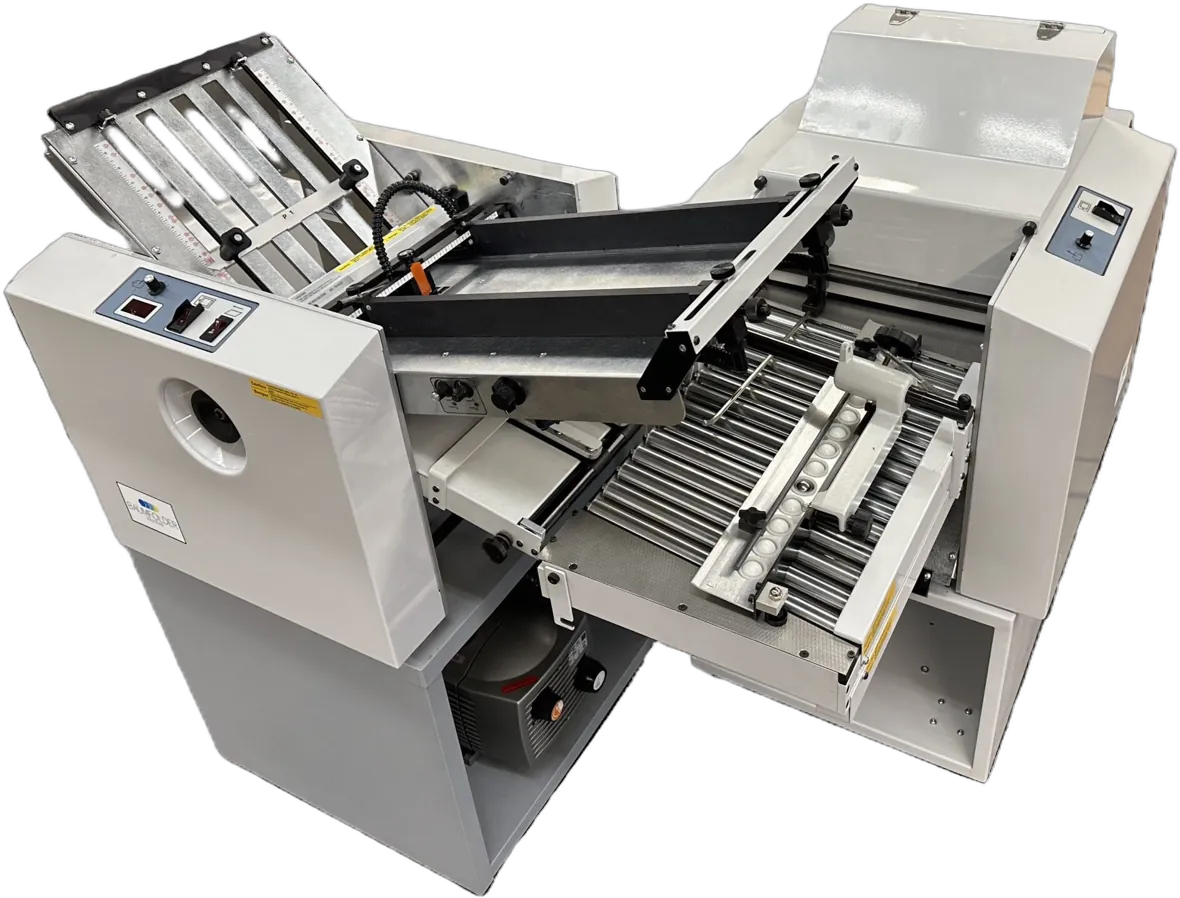
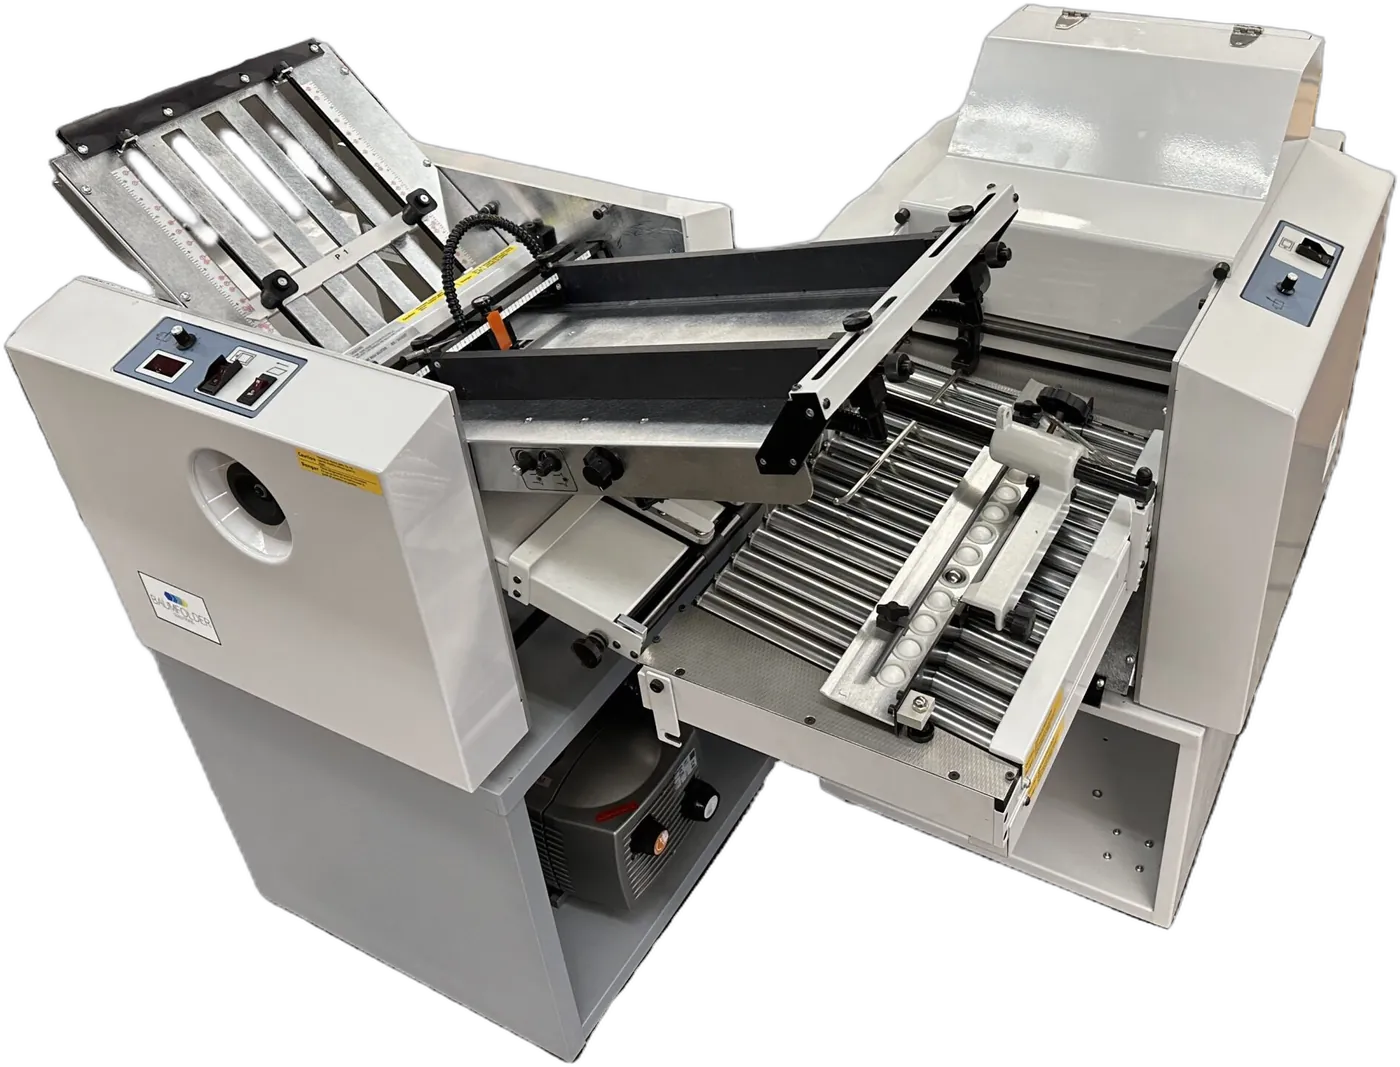
Previews: 11 ativos

diff --git a/baumfolder-sidney-oh/folding-machines.html b/baumfolder-sidney-oh/folding-machines.html
@@ -9,7 +9,7 @@
 <meta name="description" content="Tabletop, floor model and specialty paper folding machines from Baumfolder, built in Sidney, Ohio.">
 <link rel="preload" as="font" type="font/woff2" href="fonts/schibsted.woff2" crossorigin>
 <link rel="icon" href="data:,">
-<link rel="preload" as="image" href="img/714-8pg.webp" imagesrcset="img/714-8pg-640.webp 640w, img/714-8pg.webp 1180w" imagesizes="(max-width: 900px) 92vw, 560px" fetchpriority="high">
+<link rel="preload" as="image" href="img/714-8pg.webp" imagesrcset="img/714-8pg-800.webp 800w, img/714-8pg.webp 1400w" imagesizes="(max-width: 900px) 92vw, 560px" fetchpriority="high">
 <style>@font-face { font-family: "Schibsted Grotesk"; font-weight: 400 900; font-display: swap; src: url(fonts/schibsted.woff2) format("woff2"); }
 :root {
 --paper: #f7f7f4;
@@ -422,6 +422,28 @@ footer { padding-top: 2.5rem; font-size: .875rem; }
 .foot ul { gap: .3rem; }
 .legal { margin-top: 1.75rem; padding-top: 1.1rem; }
 }
+.model .shot.cap img { max-width: 170px; }
+@media (max-width: 900px) {
+.hero-in { gap: 1rem; padding-bottom: 1.5rem; }
+.sheet { grid-template-rows: 12.5rem 1fr 0; }
+.hero figure { height: 12.5rem; }
+.hero figure img { padding: .35rem 0; }
+.lines { display: flex; overflow-x: auto; scroll-snap-type: x mandatory; gap: 1rem; }
+.lines .line { flex: 0 0 86%; scroll-snap-align: start; padding-block: 1.25rem 0; }
+.lines .line + .line { margin-top: 0; }
+.lines .line > div:first-child > p { display: none; }
+}
+@media (max-width: 560px) {
+.hero h1 { font-size: 2.05rem; }
+.hero .lede { font-size: 1rem; margin-top: .8rem; }
+.hero .cta { margin-top: 1.1rem; gap: .6rem; }
+}
+@media (max-width: 900px) {
+.sheet { grid-template-rows: 13.5rem 1fr 0; }
+.hero figure { height: 13.5rem; }
+#specialty .materials { display: none; }
+#support blockquote { display: none; }
+}
 </style>
 </head>
 <body>
@@ -471,7 +493,7 @@ footer { padding-top: 2.5rem; font-size: .875rem; }
           <a class="btn btn-line" href="tel:+18005436107">Call 800.543.6107</a>
         </div>
         </div>
-        <figure><img src="img/714-8pg.webp" srcset="img/714-8pg-640.webp 640w, img/714-8pg.webp 1180w" sizes="(max-width: 900px) 92vw, 560px" width="1180" height="898" alt="BAUM 714XLT tabletop folder paired with its 8-page right-angle second station" fetchpriority="high"></figure>
+        <figure><img src="img/714-8pg.webp" srcset="img/714-8pg-800.webp 800w, img/714-8pg.webp 1400w" sizes="(max-width: 900px) 92vw, 560px" width="1400" height="1067" alt="BAUM 714XLT tabletop folder paired with its 8-page right-angle second station" fetchpriority="high"></figure>
       </div>
     </div>
   </div>

diff --git a/baumfolder-sidney-oh/index.html b/baumfolder-sidney-oh/index.html
@@ -422,6 +422,28 @@ footer { padding-top: 2.5rem; font-size: .875rem; }
 .foot ul { gap: .3rem; }
 .legal { margin-top: 1.75rem; padding-top: 1.1rem; }
 }
+.model .shot.cap img { max-width: 170px; }
+@media (max-width: 900px) {
+.hero-in { gap: 1rem; padding-bottom: 1.5rem; }
+.sheet { grid-template-rows: 12.5rem 1fr 0; }
+.hero figure { height: 12.5rem; }
+.hero figure img { padding: .35rem 0; }
+.lines { display: flex; overflow-x: auto; scroll-snap-type: x mandatory; gap: 1rem; }
+.lines .line { flex: 0 0 86%; scroll-snap-align: start; padding-block: 1.25rem 0; }
+.lines .line + .line { margin-top: 0; }
+.lines .line > div:first-child > p { display: none; }
+}
+@media (max-width: 560px) {
+.hero h1 { font-size: 2.05rem; }
+.hero .lede { font-size: 1rem; margin-top: .8rem; }
+.hero .cta { margin-top: 1.1rem; gap: .6rem; }
+}
+@media (max-width: 900px) {
+.sheet { grid-template-rows: 13.5rem 1fr 0; }
+.hero figure { height: 13.5rem; }
+#specialty .materials { display: none; }
+#support blockquote { display: none; }
+}
 </style>
 </head>
 <body>
@@ -503,6 +525,7 @@ footer { padding-top: 2.5rem; font-size: .875rem; }
         <h2 id="machines-h">Tabletop or floor model.</h2>
         <p class="lede">Desktop, tabletop and floor model folders, gluing systems for self-mailers, and accessories for the tabletop line.</p>
       </div>
+      <div class="lines">
       <div class="line">
         <div>
           <h3>Tabletop folders</h3>
@@ -527,6 +550,7 @@ footer { padding-top: 2.5rem; font-size: .875rem; }
           <figure><img src="img/baum20-pile.webp" width="1040" height="735" loading="lazy" alt="BAUM 20 floor model folder with pile feeder"><figcaption>BAUM 20 PFF and CFF<span>Pile and continuous feed</span></figcaption></figure>
           <figure><img src="img/baum20-continuous.webp" width="1054" height="593" loading="lazy" alt="BAUM 20 continuous feed folder with three fold stations"><figcaption>BAUM 20 continuous<span>Continuous feed folder</span></figcaption></figure>
         </div>
+      </div>
       </div>
     </div>
   </section>

diff --git a/baumfolder-sidney-oh/feeding-finishing.html b/baumfolder-sidney-oh/feeding-finishing.html
@@ -422,6 +422,28 @@ footer { padding-top: 2.5rem; font-size: .875rem; }
 .foot ul { gap: .3rem; }
 .legal { margin-top: 1.75rem; padding-top: 1.1rem; }
 }
+.model .shot.cap img { max-width: 170px; }
+@media (max-width: 900px) {
+.hero-in { gap: 1rem; padding-bottom: 1.5rem; }
+.sheet { grid-template-rows: 12.5rem 1fr 0; }
+.hero figure { height: 12.5rem; }
+.hero figure img { padding: .35rem 0; }
+.lines { display: flex; overflow-x: auto; scroll-snap-type: x mandatory; gap: 1rem; }
+.lines .line { flex: 0 0 86%; scroll-snap-align: start; padding-block: 1.25rem 0; }
+.lines .line + .line { margin-top: 0; }
+.lines .line > div:first-child > p { display: none; }
+}
+@media (max-width: 560px) {
+.hero h1 { font-size: 2.05rem; }
+.hero .lede { font-size: 1rem; margin-top: .8rem; }
+.hero .cta { margin-top: 1.1rem; gap: .6rem; }
+}
+@media (max-width: 900px) {
+.sheet { grid-template-rows: 13.5rem 1fr 0; }
+.hero figure { height: 13.5rem; }
+#specialty .materials { display: none; }
+#support blockquote { display: none; }
+}
 </style>
 </head>
 <body>
@@ -486,7 +508,7 @@ footer { padding-top: 2.5rem; font-size: .875rem; }
         <p>Not sure how to move a material? Their engineering team can build or find a way to move nearly anything. The range: BAUM 20 IPF‑3 independent deep pile feeder (see <a href="floor-model-folders.html#ipf">BAUM 20 IPF</a>), BAUM 20 ICF‑3 independent continuous feeder, BAUM 20 IPFSS pile feeder with sheet staging, and the BAUM 20 Rollaway stacker.</p>
       </div>
       <article class="model" id="icf">
-        <figure class="shot nat"><img src="img/icf-feeder.webp" width="340" height="182" alt="BAUM 20 ICF independent continuous feeder" loading="lazy"></figure>
+        <figure class="shot nat cap"><img src="img/icf-feeder.webp" width="340" height="182" alt="BAUM 20 ICF independent continuous feeder" loading="lazy"></figure>
         <div>
           <h2>BAUM 20 ICF‑3 independent continuous feeder</h2>
           <p class="sub">Nonstop continuous feeding onto another machine</p>

diff --git a/baumfolder-sidney-oh/tabletop-folders.html b/baumfolder-sidney-oh/tabletop-folders.html
@@ -422,6 +422,28 @@ footer { padding-top: 2.5rem; font-size: .875rem; }
 .foot ul { gap: .3rem; }
 .legal { margin-top: 1.75rem; padding-top: 1.1rem; }
 }
+.model .shot.cap img { max-width: 170px; }
+@media (max-width: 900px) {
+.hero-in { gap: 1rem; padding-bottom: 1.5rem; }
+.sheet { grid-template-rows: 12.5rem 1fr 0; }
+.hero figure { height: 12.5rem; }
+.hero figure img { padding: .35rem 0; }
+.lines { display: flex; overflow-x: auto; scroll-snap-type: x mandatory; gap: 1rem; }
+.lines .line { flex: 0 0 86%; scroll-snap-align: start; padding-block: 1.25rem 0; }
+.lines .line + .line { margin-top: 0; }
+.lines .line > div:first-child > p { display: none; }
+}
+@media (max-width: 560px) {
+.hero h1 { font-size: 2.05rem; }
+.hero .lede { font-size: 1rem; margin-top: .8rem; }
+.hero .cta { margin-top: 1.1rem; gap: .6rem; }
+}
+@media (max-width: 900px) {
+.sheet { grid-template-rows: 13.5rem 1fr 0; }
+.hero figure { height: 13.5rem; }
+#specialty .materials { display: none; }
+#support blockquote { display: none; }
+}
 </style>
 </head>
 <body>
@@ -506,7 +528,7 @@ footer { padding-top: 2.5rem; font-size: .875rem; }
         </div>
       </article>
       <article class="model" id="station2">
-        <figure class="shot"><img src="img/714-8pg.webp" width="1180" height="898" alt="BAUM 714XLT with the 8-page right-angle second station" loading="lazy"></figure>
+        <figure class="shot"><img src="img/714-8pg.webp" width="1400" height="1067" alt="BAUM 714XLT with the 8-page right-angle second station" loading="lazy"></figure>
         <div>
           <h2>BAUM 714XLT Ultrafold, 2nd station</h2>
           <p class="sub">Compact 8-page right-angle, cross-fold and booklet folder</p>

diff --git a/baumfolder-sidney-oh/about.html b/baumfolder-sidney-oh/about.html
@@ -422,6 +422,28 @@ footer { padding-top: 2.5rem; font-size: .875rem; }
 .foot ul { gap: .3rem; }
 .legal { margin-top: 1.75rem; padding-top: 1.1rem; }
 }
+.model .shot.cap img { max-width: 170px; }
+@media (max-width: 900px) {
+.hero-in { gap: 1rem; padding-bottom: 1.5rem; }
+.sheet { grid-template-rows: 12.5rem 1fr 0; }
+.hero figure { height: 12.5rem; }
+.hero figure img { padding: .35rem 0; }
+.lines { display: flex; overflow-x: auto; scroll-snap-type: x mandatory; gap: 1rem; }
+.lines .line { flex: 0 0 86%; scroll-snap-align: start; padding-block: 1.25rem 0; }
+.lines .line + .line { margin-top: 0; }
+.lines .line > div:first-child > p { display: none; }
+}
+@media (max-width: 560px) {
+.hero h1 { font-size: 2.05rem; }
+.hero .lede { font-size: 1rem; margin-top: .8rem; }
+.hero .cta { margin-top: 1.1rem; gap: .6rem; }
+}
+@media (max-width: 900px) {
+.sheet { grid-template-rows: 13.5rem 1fr 0; }
+.hero figure { height: 13.5rem; }
+#specialty .materials { display: none; }
+#support blockquote { display: none; }
+}
 </style>
 </head>
 <body>

diff --git a/baumfolder-sidney-oh/contact.html b/baumfolder-sidney-oh/contact.html
@@ -422,6 +422,28 @@ footer { padding-top: 2.5rem; font-size: .875rem; }
 .foot ul { gap: .3rem; }
 .legal { margin-top: 1.75rem; padding-top: 1.1rem; }
 }
+.model .shot.cap img { max-width: 170px; }
+@media (max-width: 900px) {
+.hero-in { gap: 1rem; padding-bottom: 1.5rem; }
+.sheet { grid-template-rows: 12.5rem 1fr 0; }
+.hero figure { height: 12.5rem; }
+.hero figure img { padding: .35rem 0; }
+.lines { display: flex; overflow-x: auto; scroll-snap-type: x mandatory; gap: 1rem; }
+.lines .line { flex: 0 0 86%; scroll-snap-align: start; padding-block: 1.25rem 0; }
+.lines .line + .line { margin-top: 0; }
+.lines .line > div:first-child > p { display: none; }
+}
+@media (max-width: 560px) {
+.hero h1 { font-size: 2.05rem; }
+.hero .lede { font-size: 1rem; margin-top: .8rem; }
+.hero .cta { margin-top: 1.1rem; gap: .6rem; }
+}
+@media (max-width: 900px) {
+.sheet { grid-template-rows: 13.5rem 1fr 0; }
+.hero figure { height: 13.5rem; }
+#specialty .materials { display: none; }
+#support blockquote { display: none; }
+}
 </style>
 </head>
 <body>

diff --git a/baumfolder-sidney-oh/contract-manufacturing.html b/baumfolder-sidney-oh/contract-manufacturing.html
@@ -422,6 +422,28 @@ footer { padding-top: 2.5rem; font-size: .875rem; }
 .foot ul { gap: .3rem; }
 .legal { margin-top: 1.75rem; padding-top: 1.1rem; }
 }
+.model .shot.cap img { max-width: 170px; }
+@media (max-width: 900px) {
+.hero-in { gap: 1rem; padding-bottom: 1.5rem; }
+.sheet { grid-template-rows: 12.5rem 1fr 0; }
+.hero figure { height: 12.5rem; }
+.hero figure img { padding: .35rem 0; }
+.lines { display: flex; overflow-x: auto; scroll-snap-type: x mandatory; gap: 1rem; }
+.lines .line { flex: 0 0 86%; scroll-snap-align: start; padding-block: 1.25rem 0; }
+.lines .line + .line { margin-top: 0; }
+.lines .line > div:first-child > p { display: none; }
+}
+@media (max-width: 560px) {
+.hero h1 { font-size: 2.05rem; }
+.hero .lede { font-size: 1rem; margin-top: .8rem; }
+.hero .cta { margin-top: 1.1rem; gap: .6rem; }
+}
+@media (max-width: 900px) {
+.sheet { grid-template-rows: 13.5rem 1fr 0; }
+.hero figure { height: 13.5rem; }
+#specialty .materials { display: none; }
+#support blockquote { display: none; }
+}
 </style>
 </head>
 <body>

diff --git a/baumfolder-sidney-oh/document-insertion.html b/baumfolder-sidney-oh/document-insertion.html
@@ -422,6 +422,28 @@ footer { padding-top: 2.5rem; font-size: .875rem; }
 .foot ul { gap: .3rem; }
 .legal { margin-top: 1.75rem; padding-top: 1.1rem; }
 }
+.model .shot.cap img { max-width: 170px; }
+@media (max-width: 900px) {
+.hero-in { gap: 1rem; padding-bottom: 1.5rem; }
+.sheet { grid-template-rows: 12.5rem 1fr 0; }
+.hero figure { height: 12.5rem; }
+.hero figure img { padding: .35rem 0; }
+.lines { display: flex; overflow-x: auto; scroll-snap-type: x mandatory; gap: 1rem; }
+.lines .line { flex: 0 0 86%; scroll-snap-align: start; padding-block: 1.25rem 0; }
+.lines .line + .line { margin-top: 0; }
+.lines .line > div:first-child > p { display: none; }
+}
+@media (max-width: 560px) {
+.hero h1 { font-size: 2.05rem; }
+.hero .lede { font-size: 1rem; margin-top: .8rem; }
+.hero .cta { margin-top: 1.1rem; gap: .6rem; }
+}
+@media (max-width: 900px) {
+.sheet { grid-template-rows: 13.5rem 1fr 0; }
+.hero figure { height: 13.5rem; }
+#specialty .materials { display: none; }
+#support blockquote { display: none; }
+}
 </style>
 </head>
 <body>

diff --git a/baumfolder-sidney-oh/floor-model-folders.html b/baumfolder-sidney-oh/floor-model-folders.html
@@ -422,6 +422,28 @@ footer { padding-top: 2.5rem; font-size: .875rem; }
 .foot ul { gap: .3rem; }
 .legal { margin-top: 1.75rem; padding-top: 1.1rem; }
 }
+.model .shot.cap img { max-width: 170px; }
+@media (max-width: 900px) {
+.hero-in { gap: 1rem; padding-bottom: 1.5rem; }
+.sheet { grid-template-rows: 12.5rem 1fr 0; }
+.hero figure { height: 12.5rem; }
+.hero figure img { padding: .35rem 0; }
+.lines { display: flex; overflow-x: auto; scroll-snap-type: x mandatory; gap: 1rem; }
+.lines .line { flex: 0 0 86%; scroll-snap-align: start; padding-block: 1.25rem 0; }
+.lines .line + .line { margin-top: 0; }
+.lines .line > div:first-child > p { display: none; }
+}
+@media (max-width: 560px) {
+.hero h1 { font-size: 2.05rem; }
+.hero .lede { font-size: 1rem; margin-top: .8rem; }
+.hero .cta { margin-top: 1.1rem; gap: .6rem; }
+}
+@media (max-width: 900px) {
+.sheet { grid-template-rows: 13.5rem 1fr 0; }
+.hero figure { height: 13.5rem; }
+#specialty .materials { display: none; }
+#support blockquote { display: none; }
+}
 </style>
 </head>
 <body>

diff --git a/baumfolder-sidney-oh/parts-service.html b/baumfolder-sidney-oh/parts-service.html
@@ -422,6 +422,28 @@ footer { padding-top: 2.5rem; font-size: .875rem; }
 .foot ul { gap: .3rem; }
 .legal { margin-top: 1.75rem; padding-top: 1.1rem; }
 }
+.model .shot.cap img { max-width: 170px; }
+@media (max-width: 900px) {
+.hero-in { gap: 1rem; padding-bottom: 1.5rem; }
+.sheet { grid-template-rows: 12.5rem 1fr 0; }
+.hero figure { height: 12.5rem; }
+.hero figure img { padding: .35rem 0; }
+.lines { display: flex; overflow-x: auto; scroll-snap-type: x mandatory; gap: 1rem; }
+.lines .line { flex: 0 0 86%; scroll-snap-align: start; padding-block: 1.25rem 0; }
+.lines .line + .line { margin-top: 0; }
+.lines .line > div:first-child > p { display: none; }
+}
+@media (max-width: 560px) {
+.hero h1 { font-size: 2.05rem; }
+.hero .lede { font-size: 1rem; margin-top: .8rem; }
+.hero .cta { margin-top: 1.1rem; gap: .6rem; }
+}
+@media (max-width: 900px) {
+.sheet { grid-template-rows: 13.5rem 1fr 0; }
+.hero figure { height: 13.5rem; }
+#specialty .materials { display: none; }
+#support blockquote { display: none; }
+}
 </style>
 </head>
 <body>

diff --git a/baumfolder-sidney-oh/specialty-folders.html b/baumfolder-sidney-oh/specialty-folders.html
@@ -422,6 +422,28 @@ footer { padding-top: 2.5rem; font-size: .875rem; }
 .foot ul { gap: .3rem; }
 .legal { margin-top: 1.75rem; padding-top: 1.1rem; }
 }
+.model .shot.cap img { max-width: 170px; }
+@media (max-width: 900px) {
+.hero-in { gap: 1rem; padding-bottom: 1.5rem; }
+.sheet { grid-template-rows: 12.5rem 1fr 0; }
+.hero figure { height: 12.5rem; }
+.hero figure img { padding: .35rem 0; }
+.lines { display: flex; overflow-x: auto; scroll-snap-type: x mandatory; gap: 1rem; }
+.lines .line { flex: 0 0 86%; scroll-snap-align: start; padding-block: 1.25rem 0; }
+.lines .line + .line { margin-top: 0; }
+.lines .line > div:first-child > p { display: none; }
+}
+@media (max-width: 560px) {
+.hero h1 { font-size: 2.05rem; }
+.hero .lede { font-size: 1rem; margin-top: .8rem; }
+.hero .cta { margin-top: 1.1rem; gap: .6rem; }
+}
+@media (max-width: 900px) {
+.sheet { grid-template-rows: 13.5rem 1fr 0; }
+.hero figure { height: 13.5rem; }
+#specialty .materials { display: none; }
+#support blockquote { display: none; }
+}
 </style>
 </head>
 <body>
